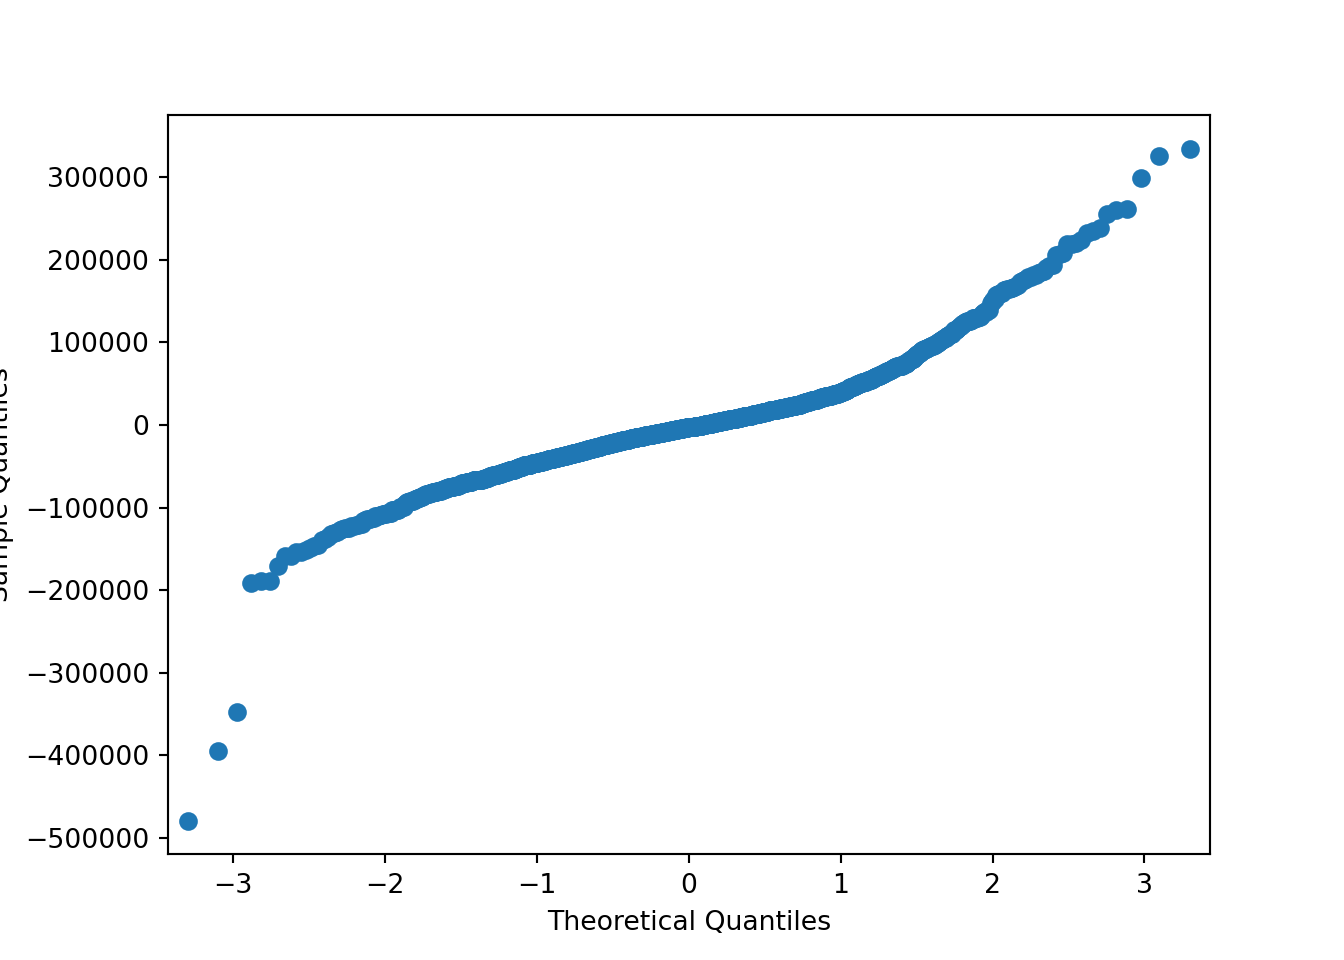
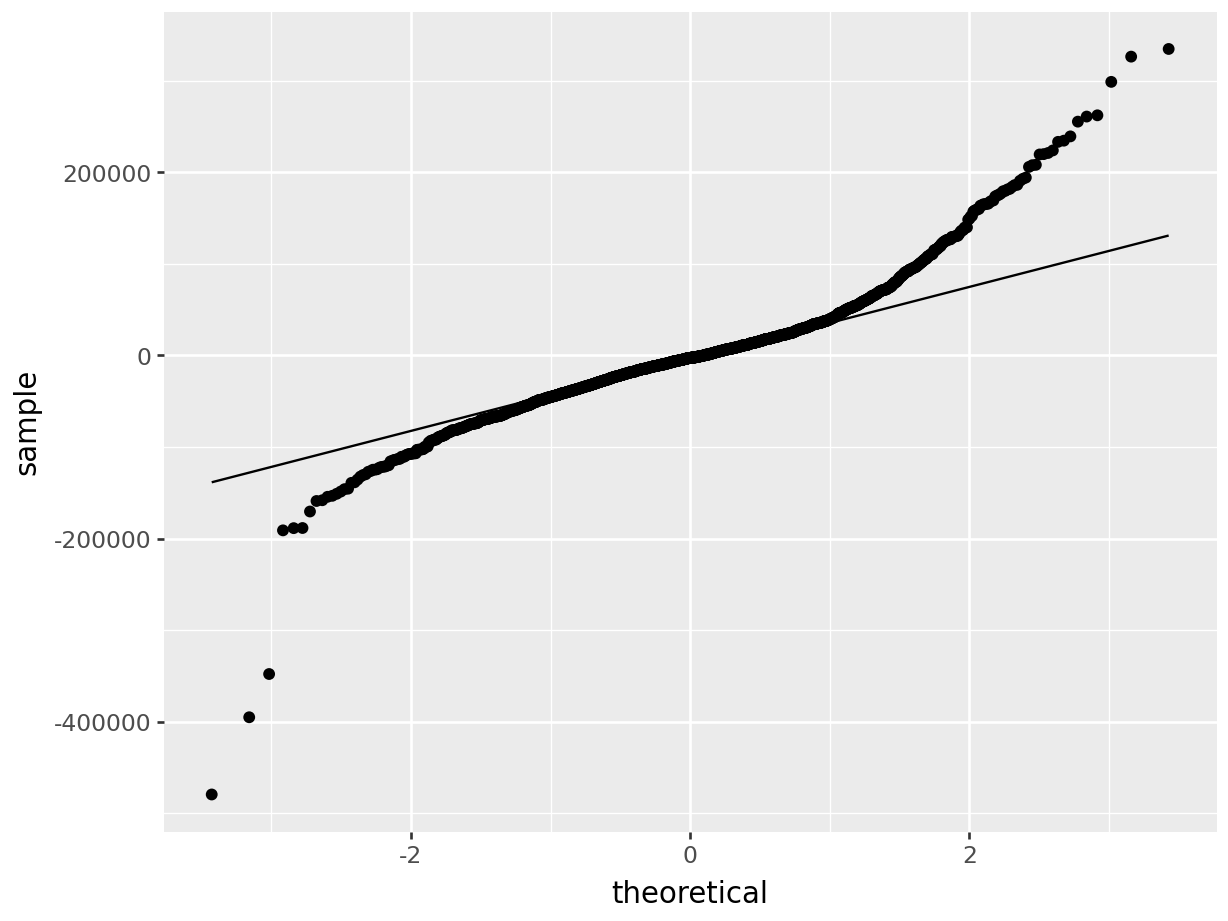
Finish updating Chapter 2

diff --git a/docs/slr.html b/docs/slr.html
@@ -209,7 +209,6 @@ code span.wa { color: #60a0b0; font-weight: bold; font-style: italic; } /* Warni
 <ul>
 <li class="chapter" data-level="2.7.1" data-path="slr.html"><a href="slr.html#slrassumptions"><i class="fa fa-check"></i><b>2.7.1</b> Assumptions of Linear Regression</a></li>
 <li class="chapter" data-level="2.7.2" data-path="slr.html"><a href="slr.html#testing-for-association"><i class="fa fa-check"></i><b>2.7.2</b> Testing for Association</a></li>
-<li class="chapter" data-level="2.7.3" data-path="slr.html"><a href="slr.html#python-code-17"><i class="fa fa-check"></i><b>2.7.3</b> Python Code</a></li>
 </ul></li>
 </ul></li>
 <li class="chapter" data-level="3" data-path="mlr.html"><a href="mlr.html"><i class="fa fa-check"></i><b>3</b> Complex ANOVA and Multiple Linear Regression</a>
@@ -733,7 +732,7 @@ Both the <code>lm()</code> function and the <code>aov()</code> function will pro
   <th>Date:</th>             <td>Mon, 12 May 2025</td> <th>  Prob (F-statistic):</th> <td>1.72e-55</td>
 </tr>
 <tr>
-  <th>Time:</th>                 <td>12:46:33</td>     <th>  Log-Likelihood:    </th> <td> -1304.1</td>
+  <th>Time:</th>                 <td>13:16:47</td>     <th>  Log-Likelihood:    </th> <td> -1304.1</td>
 </tr>
 <tr>
   <th>No. Observations:</th>      <td>   428</td>      <th>  AIC:               </th> <td>   2614.</td>
@@ -1207,7 +1206,7 @@ Figure 2.8: A single anomalous observation creates strong correlation (0.73) whe
 ##        [0.23863599, 0.45383515, 0.57135986, 1.        , 0.69584201],
 ##        [0.55703178, 0.62538744, 0.62067339, 0.69584201, 1.        ]])</code></pre>
 <div class="sourceCode" id="cb123"><pre class="sourceCode python"><code class="sourceCode python"><span id="cb123-1"><a href="slr.html#cb123-1" tabindex="-1"></a>sns.pairplot(train_plot)</span></code></pre></div>
-<pre><code>## &lt;seaborn.axisgrid.PairGrid object at 0x0000029B902F0BF0&gt;</code></pre>
+<pre><code>## &lt;seaborn.axisgrid.PairGrid object at 0x0000018370A5DC40&gt;</code></pre>
 <p><img src="bookdownproj_files/figure-html/unnamed-chunk-49-1.png" width="1200" /></p>
 </div>
 </div>
@@ -1237,6 +1236,8 @@ where <span class="math inline">\(\beta_0\)</span>, the <strong>intercept</stron
 <li>The random errors have equal variance (homoskedasticity).</li>
 </ol>
 <p>It must now be noted that these assumptions are also in effect for the test of Pearson’s correlation in Section <a href="slr.html#testcor">2.6.1</a>, because the tests in simple linear regression are mathematically equivalent to that test. When these assumptions are not met, another approach to testing the significance of a linear relationship should be considered. The most common non-parametric approach to testing for an association between two continuous variables is Spearman’s correlation. Spearman’s correlation does not limit its findings to linear relationships; any monotonic relationship (one that is always increasing or always decreasing) will cause Spearman’s correlation to be significant. Similar to the approach taken by Kruskal-Wallis, Spearman’s correlation replaces the data with its ranks and computes Pearson’s correlation on the ranks. The same <code>cor</code> and <code>cor.test()</code> functions can be used; simply specify the <code>method='spearman'</code> option.</p>
+<div id="r-code-17" class="section level4 hasAnchor" number="2.7.1.1">
+<h4><span class="header-section-number">2.7.1.1</span> R code:<a href="slr.html#r-code-17" class="anchor-section" aria-label="Anchor link to header"></a></h4>
 <div class="sourceCode" id="cb125"><pre class="sourceCode r"><code class="sourceCode r"><span id="cb125-1"><a href="slr.html#cb125-1" tabindex="-1"></a><span class="fu">cor.test</span>(train<span class="sc">$</span>Gr_Liv_Area,train<span class="sc">$</span>Sale_Price, <span class="at">method =</span> <span class="st">&#39;spearman&#39;</span>)</span></code></pre></div>
 <pre><code>## Warning in cor.test.default(x, y, ...): Cannot compute exact p-value with ties</code></pre>
 <pre><code>## 
@@ -1248,6 +1249,7 @@ where <span class="math inline">\(\beta_0\)</span>, the <strong>intercept</stron
 ## sample estimates:
 ##       rho 
 ## 0.7199591</code></pre>
+</div>
 </div>
 <div id="testing-for-association" class="section level3 hasAnchor" number="2.7.2">
 <h3><span class="header-section-number">2.7.2</span> Testing for Association<a href="slr.html#testing-for-association" class="anchor-section" aria-label="Anchor link to header"></a></h3>
@@ -1308,13 +1310,12 @@ The first thing we will do after creating the linear model is check our assumpti
 ## Multiple R-squared:  0.0752, Adjusted R-squared:  0.07475 
 ## F-statistic: 166.6 on 1 and 2049 DF,  p-value: &lt; 2.2e-16</code></pre>
 <p>We see that Central does indeed have a significant linear relationship with Sales Price. Looking at the above output, we see that X took on the value of 1 if the category was “Yes” and 0 if it was “No”. Therefore, we can interpret the coefficient as we expect the sales price of a home in Ames, Iowa to be on average $83,938 higher if they have central air compared to those homes that do not have central air.</p>
-</div>
-<div id="python-code-17" class="section level3 hasAnchor" number="2.7.3">
-<h3><span class="header-section-number">2.7.3</span> Python Code<a href="slr.html#python-code-17" class="anchor-section" aria-label="Anchor link to header"></a></h3>
+<div id="python-code-17" class="section level4 hasAnchor" number="2.7.2.1">
+<h4><span class="header-section-number">2.7.2.1</span> Python Code<a href="slr.html#python-code-17" class="anchor-section" aria-label="Anchor link to header"></a></h4>
 <p>Assumptions of Linear Regression</p>
 <div class="sourceCode" id="cb134"><pre class="sourceCode python"><code class="sourceCode python"><span id="cb134-1"><a href="slr.html#cb134-1" tabindex="-1"></a>sp.stats.spearmanr(train[<span class="st">&#39;Gr_Liv_Area&#39;</span>], train[<span class="st">&#39;Sale_Price&#39;</span>])</span></code></pre></div>
 <pre><code>## SignificanceResult(statistic=0.719959092874937, pvalue=0.0)</code></pre>
-<p>Test for Association</p>
+<p>Fit linear regression:</p>
 <div class="sourceCode" id="cb136"><pre class="sourceCode python"><code class="sourceCode python"><span id="cb136-1"><a href="slr.html#cb136-1" tabindex="-1"></a>model_slr <span class="op">=</span> smf.ols(<span class="st">&quot;Sale_Price ~ Gr_Liv_Area&quot;</span>, data <span class="op">=</span> train).fit()</span>
 <span id="cb136-2"><a href="slr.html#cb136-2" tabindex="-1"></a>model_slr.summary()</span></code></pre></div>
 <pre><code>## &lt;class &#39;statsmodels.iolib.summary.Summary&#39;&gt;
@@ -1325,7 +1326,7 @@ The first thing we will do after creating the linear model is check our assumpti
 ## Model:                            OLS   Adj. R-squared:                  0.484
 ## Method:                 Least Squares   F-statistic:                     1923.
 ## Date:                Mon, 12 May 2025   Prob (F-statistic):          6.98e-297
-## Time:                        12:46:48   Log-Likelihood:                -25409.
+## Time:                        13:17:02   Log-Likelihood:                -25409.
 ## No. Observations:                2051   AIC:                         5.082e+04
 ## Df Residuals:                    2049   BIC:                         5.083e+04
 ## Df Model:                           1                                         
@@ -1349,14 +1350,74 @@ The first thing we will do after creating the linear model is check our assumpti
 ## &quot;&quot;&quot;</code></pre>
 <div class="sourceCode" id="cb138"><pre class="sourceCode python"><code class="sourceCode python"><span id="cb138-1"><a href="slr.html#cb138-1" tabindex="-1"></a></span>
 <span id="cb138-2"><a href="slr.html#cb138-2" tabindex="-1"></a>train[<span class="st">&#39;pred_slr&#39;</span>] <span class="op">=</span> model_slr.predict()</span>
-<span id="cb138-3"><a href="slr.html#cb138-3" tabindex="-1"></a>train[<span class="st">&#39;resid_slr&#39;</span>] <span class="op">=</span> model_slr.resid</span>
-<span id="cb138-4"><a href="slr.html#cb138-4" tabindex="-1"></a></span>
-<span id="cb138-5"><a href="slr.html#cb138-5" tabindex="-1"></a><span class="co">#train[[&#39;Sale_Price&#39;, &#39;pred_anova&#39;, &#39;pred_slr&#39;]].head(n = 10)</span></span></code></pre></div>
-<div class="sourceCode" id="cb139"><pre class="sourceCode python"><code class="sourceCode python"><span id="cb139-1"><a href="slr.html#cb139-1" tabindex="-1"></a>sm.api.qqplot(train[<span class="st">&#39;resid_slr&#39;</span>])</span></code></pre></div>
-<pre><code>## &lt;Figure size 700x500 with 1 Axes&gt;</code></pre>
-<div class="sourceCode" id="cb141"><pre class="sourceCode python"><code class="sourceCode python"><span id="cb141-1"><a href="slr.html#cb141-1" tabindex="-1"></a>plt.show()</span></code></pre></div>
-<p><img src="bookdownproj_files/figure-html/unnamed-chunk-57-1.png" width="672" /></p>
+<span id="cb138-3"><a href="slr.html#cb138-3" tabindex="-1"></a>train[<span class="st">&#39;resid_slr&#39;</span>] <span class="op">=</span> model_slr.resid</span></code></pre></div>
+<p>Look at Normality</p>
+<div class="sourceCode" id="cb139"><pre class="sourceCode python"><code class="sourceCode python"><span id="cb139-1"><a href="slr.html#cb139-1" tabindex="-1"></a>p <span class="op">=</span> (</span>
+<span id="cb139-2"><a href="slr.html#cb139-2" tabindex="-1"></a>  ggplot(train, aes(sample <span class="op">=</span> <span class="st">&quot;resid_slr&quot;</span>)) <span class="op">+</span></span>
+<span id="cb139-3"><a href="slr.html#cb139-3" tabindex="-1"></a>  stat_qq() <span class="op">+</span></span>
+<span id="cb139-4"><a href="slr.html#cb139-4" tabindex="-1"></a>  stat_qq_line()</span>
+<span id="cb139-5"><a href="slr.html#cb139-5" tabindex="-1"></a>  )</span>
+<span id="cb139-6"><a href="slr.html#cb139-6" tabindex="-1"></a></span>
+<span id="cb139-7"><a href="slr.html#cb139-7" tabindex="-1"></a>p.show()</span></code></pre></div>
+<p><img src="bookdownproj_files/figure-html/unnamed-chunk-57-1.png" width="614" /></p>
+<p>Residual plot:</p>
+<div class="sourceCode" id="cb140"><pre class="sourceCode python"><code class="sourceCode python"><span id="cb140-1"><a href="slr.html#cb140-1" tabindex="-1"></a>p <span class="op">=</span> (</span>
+<span id="cb140-2"><a href="slr.html#cb140-2" tabindex="-1"></a>  ggplot(train, aes(x<span class="op">=</span><span class="st">&#39;pred_slr&#39;</span>,y<span class="op">=</span><span class="st">&#39;resid_slr&#39;</span>))<span class="op">+</span> geom_point()<span class="op">+</span> labs(x<span class="op">=</span><span class="st">&#39;Predicted Values&#39;</span>,y<span class="op">=</span><span class="st">&#39;Residuals&#39;</span>)</span>
+<span id="cb140-3"><a href="slr.html#cb140-3" tabindex="-1"></a>  )</span>
+<span id="cb140-4"><a href="slr.html#cb140-4" tabindex="-1"></a>  </span>
+<span id="cb140-5"><a href="slr.html#cb140-5" tabindex="-1"></a>p.show()</span></code></pre></div>
+<p><img src="bookdownproj_files/figure-html/unnamed-chunk-58-3.png" width="614" /></p>
+<p>With categorical variable:</p>
+<div class="sourceCode" id="cb141"><pre class="sourceCode python"><code class="sourceCode python"><span id="cb141-1"><a href="slr.html#cb141-1" tabindex="-1"></a>model_slr <span class="op">=</span> smf.ols(<span class="st">&quot;Sale_Price ~ C(Central_Air)&quot;</span>, data <span class="op">=</span> train).fit()</span>
+<span id="cb141-2"><a href="slr.html#cb141-2" tabindex="-1"></a>model_slr.summary()</span></code></pre></div>
+<pre><code>## &lt;class &#39;statsmodels.iolib.summary.Summary&#39;&gt;
+## &quot;&quot;&quot;
+##                             OLS Regression Results                            
+## ==============================================================================
+## Dep. Variable:             Sale_Price   R-squared:                       0.075
+## Model:                            OLS   Adj. R-squared:                  0.075
+## Method:                 Least Squares   F-statistic:                     166.6
+## Date:                Mon, 12 May 2025   Prob (F-statistic):           1.05e-36
+## Time:                        13:17:03   Log-Likelihood:                -26008.
+## No. Observations:                2051   AIC:                         5.202e+04
+## Df Residuals:                    2049   BIC:                         5.203e+04
+## Df Model:                           1                                         
+## Covariance Type:            nonrobust                                         
+## =======================================================================================
+##                           coef    std err          t      P&gt;|t|      [0.025      0.975]
+## ---------------------------------------------------------------------------------------
+## Intercept            9.965e+04   6623.194     15.045      0.000    8.67e+04    1.13e+05
+## C(Central_Air)[T.Y]  8.852e+04   6857.927     12.908      0.000    7.51e+04    1.02e+05
+## ==============================================================================
+## Omnibus:                      816.452   Durbin-Watson:                   2.040
+## Prob(Omnibus):                  0.000   Jarque-Bera (JB):             4081.413
+## Skew:                           1.840   Prob(JB):                         0.00
+## Kurtosis:                       8.850   Cond. No.                         7.58
+## ==============================================================================
+## 
+## Notes:
+## [1] Standard Errors assume that the covariance matrix of the errors is correctly specified.
+## &quot;&quot;&quot;</code></pre>
+<div class="sourceCode" id="cb143"><pre class="sourceCode python"><code class="sourceCode python"><span id="cb143-1"><a href="slr.html#cb143-1" tabindex="-1"></a></span>
+<span id="cb143-2"><a href="slr.html#cb143-2" tabindex="-1"></a>train[<span class="st">&#39;pred_slr&#39;</span>] <span class="op">=</span> model_slr.predict()</span>
+<span id="cb143-3"><a href="slr.html#cb143-3" tabindex="-1"></a>train[<span class="st">&#39;resid_slr&#39;</span>] <span class="op">=</span> model_slr.resid</span></code></pre></div>
+<p>Plots:</p>
+<div class="sourceCode" id="cb144"><pre class="sourceCode python"><code class="sourceCode python"><span id="cb144-1"><a href="slr.html#cb144-1" tabindex="-1"></a>p <span class="op">=</span> (</span>
+<span id="cb144-2"><a href="slr.html#cb144-2" tabindex="-1"></a>  ggplot(train, aes(sample <span class="op">=</span> <span class="st">&quot;resid_slr&quot;</span>)) <span class="op">+</span></span>
+<span id="cb144-3"><a href="slr.html#cb144-3" tabindex="-1"></a>  stat_qq() <span class="op">+</span></span>
+<span id="cb144-4"><a href="slr.html#cb144-4" tabindex="-1"></a>  stat_qq_line()</span>
+<span id="cb144-5"><a href="slr.html#cb144-5" tabindex="-1"></a>  )</span>
+<span id="cb144-6"><a href="slr.html#cb144-6" tabindex="-1"></a></span>
+<span id="cb144-7"><a href="slr.html#cb144-7" tabindex="-1"></a>p.show()</span></code></pre></div>
+<p><img src="bookdownproj_files/figure-html/unnamed-chunk-60-5.png" width="614" /></p>
+<div class="sourceCode" id="cb145"><pre class="sourceCode python"><code class="sourceCode python"><span id="cb145-1"><a href="slr.html#cb145-1" tabindex="-1"></a>p <span class="op">=</span> (</span>
+<span id="cb145-2"><a href="slr.html#cb145-2" tabindex="-1"></a>  ggplot(train, aes(x<span class="op">=</span><span class="st">&#39;pred_slr&#39;</span>,y<span class="op">=</span><span class="st">&#39;resid_slr&#39;</span>))<span class="op">+</span> geom_point()<span class="op">+</span> labs(x<span class="op">=</span><span class="st">&#39;Predicted Values&#39;</span>,y<span class="op">=</span><span class="st">&#39;Residuals&#39;</span>)</span>
+<span id="cb145-3"><a href="slr.html#cb145-3" tabindex="-1"></a>  )</span>
+<span id="cb145-4"><a href="slr.html#cb145-4" tabindex="-1"></a>  </span>
+<span id="cb145-5"><a href="slr.html#cb145-5" tabindex="-1"></a>p.show()</span></code></pre></div>
+<p><img src="bookdownproj_files/figure-html/unnamed-chunk-60-6.png" width="614" /></p>
 
+</div>
 </div>
 </div>
 </div>

diff --git a/docs/404.html b/docs/404.html
@@ -209,7 +209,6 @@ code span.wa { color: #60a0b0; font-weight: bold; font-style: italic; } /* Warni
 <ul>
 <li class="chapter" data-level="2.7.1" data-path="slr.html"><a href="slr.html#slrassumptions"><i class="fa fa-check"></i><b>2.7.1</b> Assumptions of Linear Regression</a></li>
 <li class="chapter" data-level="2.7.2" data-path="slr.html"><a href="slr.html#testing-for-association"><i class="fa fa-check"></i><b>2.7.2</b> Testing for Association</a></li>
-<li class="chapter" data-level="2.7.3" data-path="slr.html"><a href="slr.html#python-code-17"><i class="fa fa-check"></i><b>2.7.3</b> Python Code</a></li>
 </ul></li>
 </ul></li>
 <li class="chapter" data-level="3" data-path="mlr.html"><a href="mlr.html"><i class="fa fa-check"></i><b>3</b> Complex ANOVA and Multiple Linear Regression</a>
